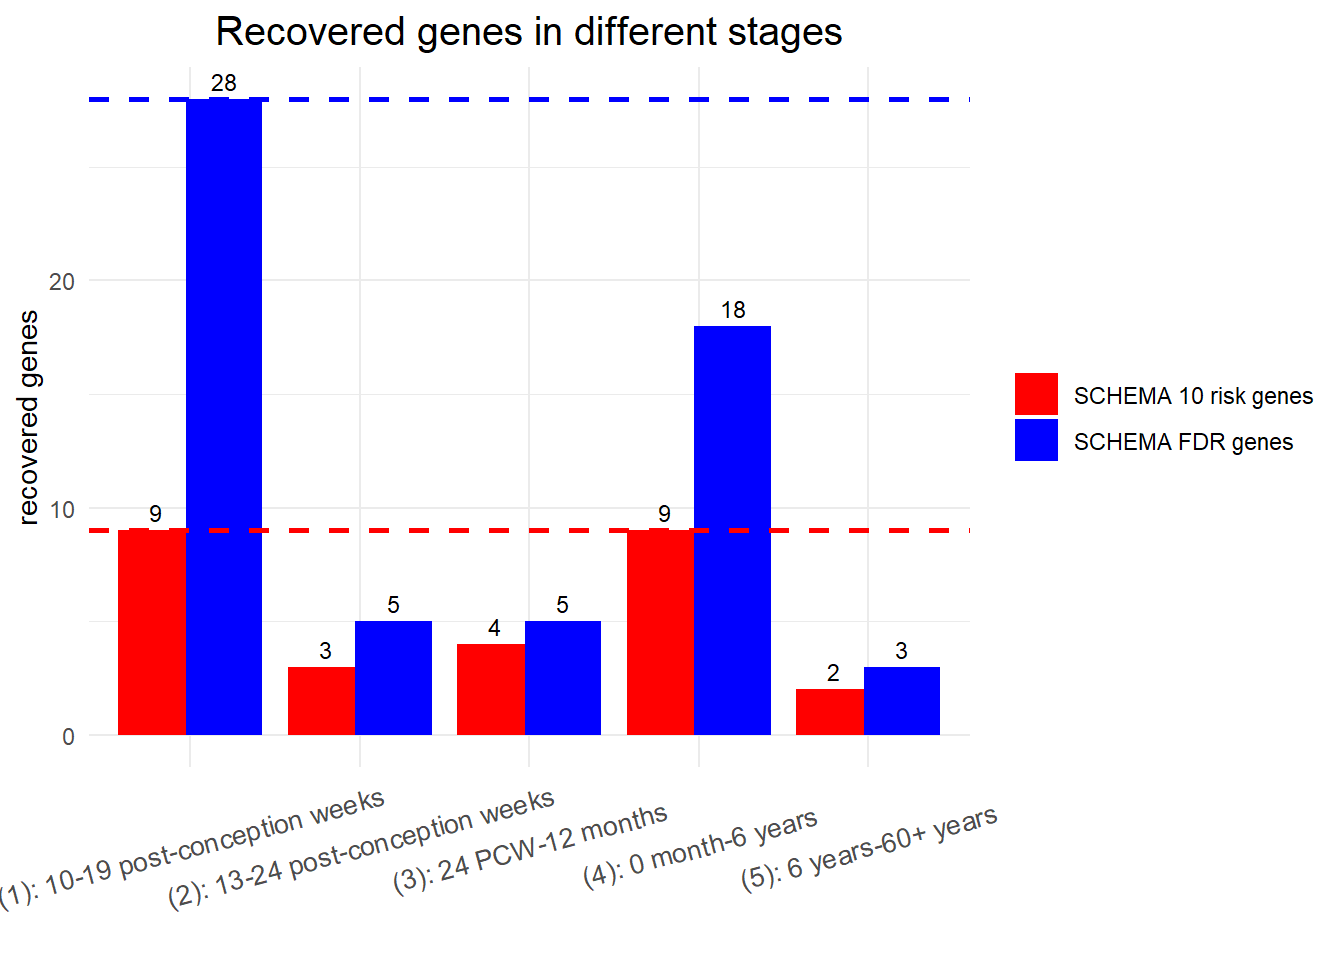
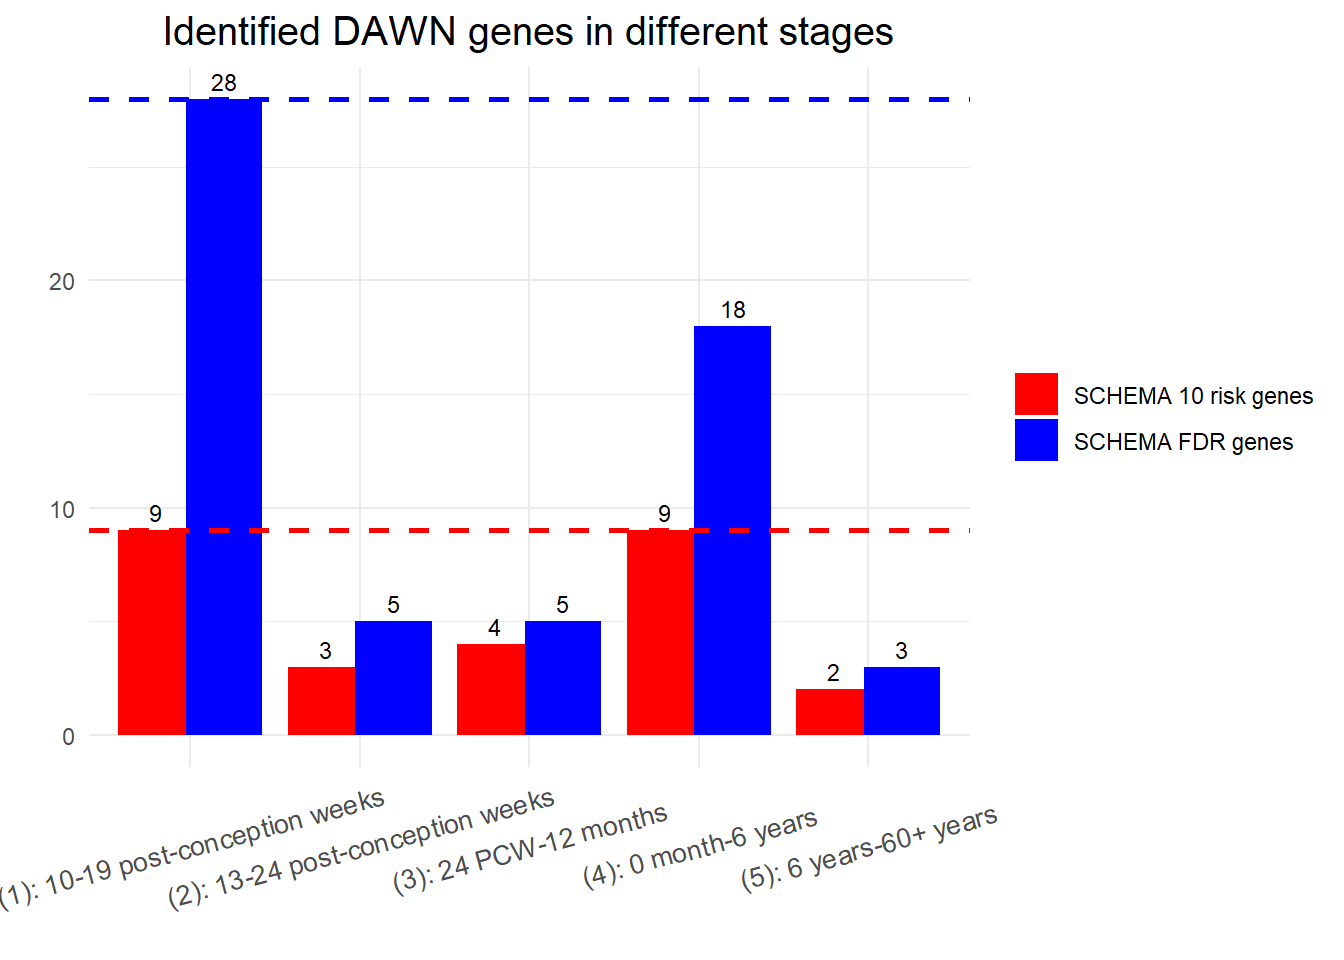
12/13/2024

Changed region(s): [[0.125, 0.0, 0.6562, 0.0625], [0.0, 0.3125, 0.0312, 0.5625]]

diff --git a/docs/index.html b/docs/index.html
@@ -398,7 +398,7 @@ aria-hidden="true"></span> </a>
 <div class="tab-content">
 <div id="summary" class="tab-pane fade in active">
 <p>
-<strong>Last updated:</strong> 2024-12-12
+<strong>Last updated:</strong> 2024-12-13
 </p>
 <p>
 <strong>Checks:</strong> <span
@@ -558,15 +558,15 @@ C:\\han\\Projects\\Multi_Omics\\multi_omics
 <div class="panel panel-default">
 <div class="panel-heading">
 <p class="panel-title">
-<a data-toggle="collapse" data-parent="#workflowr-checks" href="#strongRepositoryversionstrongahrefhttpsgithubcomhan16multiomicstreecf589b886343043783ccb2b2ffd39f585de20453targetblankcf589b8a">
+<a data-toggle="collapse" data-parent="#workflowr-checks" href="#strongRepositoryversionstrongahrefhttpsgithubcomhan16multiomicstree8c87cf5a20fedc847409dde634d07ba64de07a87targetblank8c87cf5a">
 <span class="glyphicon glyphicon-ok text-success"
 aria-hidden="true"></span> <strong>Repository version:</strong>
-<a href="https://github.com/han16/multi_omics/tree/cf589b886343043783ccb2b2ffd39f585de20453" target="_blank">cf589b8</a>
+<a href="https://github.com/han16/multi_omics/tree/8c87cf5a20fedc847409dde634d07ba64de07a87" target="_blank">8c87cf5</a>
 </a>
 </p>
 </div>
 <div
[2 lines of base64/hex data omitted]
 class="panel-collapse collapse">
 <div class="panel-body">
 <p>
@@ -576,7 +576,7 @@ reproducibility.
 </p>
 <p>
 The results in this page were generated with repository version
-<a href="https://github.com/han16/multi_omics/tree/cf589b886343043783ccb2b2ffd39f585de20453" target="_blank">cf589b8</a>.
+<a href="https://github.com/han16/multi_omics/tree/8c87cf5a20fedc847409dde634d07ba64de07a87" target="_blank">8c87cf5</a>.
 See the <em>Past versions</em> tab to see a history of the changes made
 to the R Markdown and HTML files.
 </p>
@@ -652,6 +652,40 @@ Message
 </tr>
 </thead>
 <tbody>
+<tr>
+<td>
+Rmd
+</td>
+<td>
+<a href="https://github.com/han16/multi_omics/blob/8c87cf5a20fedc847409dde634d07ba64de07a87/analysis/index.Rmd" target="_blank">8c87cf5</a>
+</td>
+<td>
+han
+</td>
+<td>
+2024-12-12
+</td>
+<td>
+12/12/2024
+</td>
+</tr>
+<tr>
+<td>
+html
+</td>
+<td>
+<a href="https://rawcdn.githack.com/han16/multi_omics/8c87cf5a20fedc847409dde634d07ba64de07a87/docs/index.html" target="_blank">8c87cf5</a>
+</td>
+<td>
+han
+</td>
+<td>
+2024-12-12
+</td>
+<td>
+12/12/2024
+</td>
+</tr>
 <tr>
 <td>
 Rmd
@@ -1123,9 +1157,9 @@ ggplot(data_plot, aes(x = time_point, y = recovered_genes, fill = gene_set)) +
             position = position_dodge(width = 0.8), 
             vjust = -0.5, 
             size = 3) +
-  labs(title = &quot;Recovered genes in different stages&quot;,
+  labs(title = &quot;Identified DAWN genes in different stages&quot;,
        x = &quot;&quot;, 
-       y = &quot;recovered genes&quot;) +
+       y = &quot;&quot;) +
   theme_minimal() +
    theme(plot.title = element_text(hjust = 0.5, size=15))+  #center the title
    theme(axis.text.x = element_text(angle = 15, vjust = 0.5, size=10))+
@@ -1134,6 +1168,43 @@ ggplot(data_plot, aes(x = time_point, y = recovered_genes, fill = gene_set)) +
   geom_hline(yintercept = 9, color = &quot;red&quot;, linetype = &quot;dashed&quot;, size=1) + # First line
   geom_hline(yintercept = 28, color = &quot;blue&quot;, linetype = &quot;dashed&quot;, size=1)  # Second line</code></pre>
 <p><img src="figure/index.Rmd/unnamed-chunk-7-1.png" width="672" style="display: block; margin: auto;" /></p>
+<p>
+<button type="button" class="btn btn-default btn-xs btn-workflowr btn-workflowr-fig" data-toggle="collapse" data-target="#fig-unnamed-chunk-7-1">
+Past versions of unnamed-chunk-7-1.png
+</button>
+</p>
+<div id="fig-unnamed-chunk-7-1" class="collapse">
+<div class="table-responsive">
+<table class="table table-condensed table-hover">
+<thead>
+<tr>
+<th>
+Version
+</th>
+<th>
+Author
+</th>
+<th>
+Date
+</th>
+</tr>
+</thead>
+<tbody>
+<tr>
+<td>
+<a href="https://github.com/han16/multi_omics/blob/8c87cf5a20fedc847409dde634d07ba64de07a87/docs/figure/index.Rmd/unnamed-chunk-7-1.png" target="_blank">8c87cf5</a>
+</td>
+<td>
+han
+</td>
+<td>
+2024-12-12
+</td>
+</tr>
+</tbody>
+</table>
+</div>
+</div>
 <br>
 <p>
 <button type="button" class="btn btn-default btn-workflowr btn-workflowr-sessioninfo" data-toggle="collapse" data-target="#workflowr-sessioninfo" style="display: block;">
